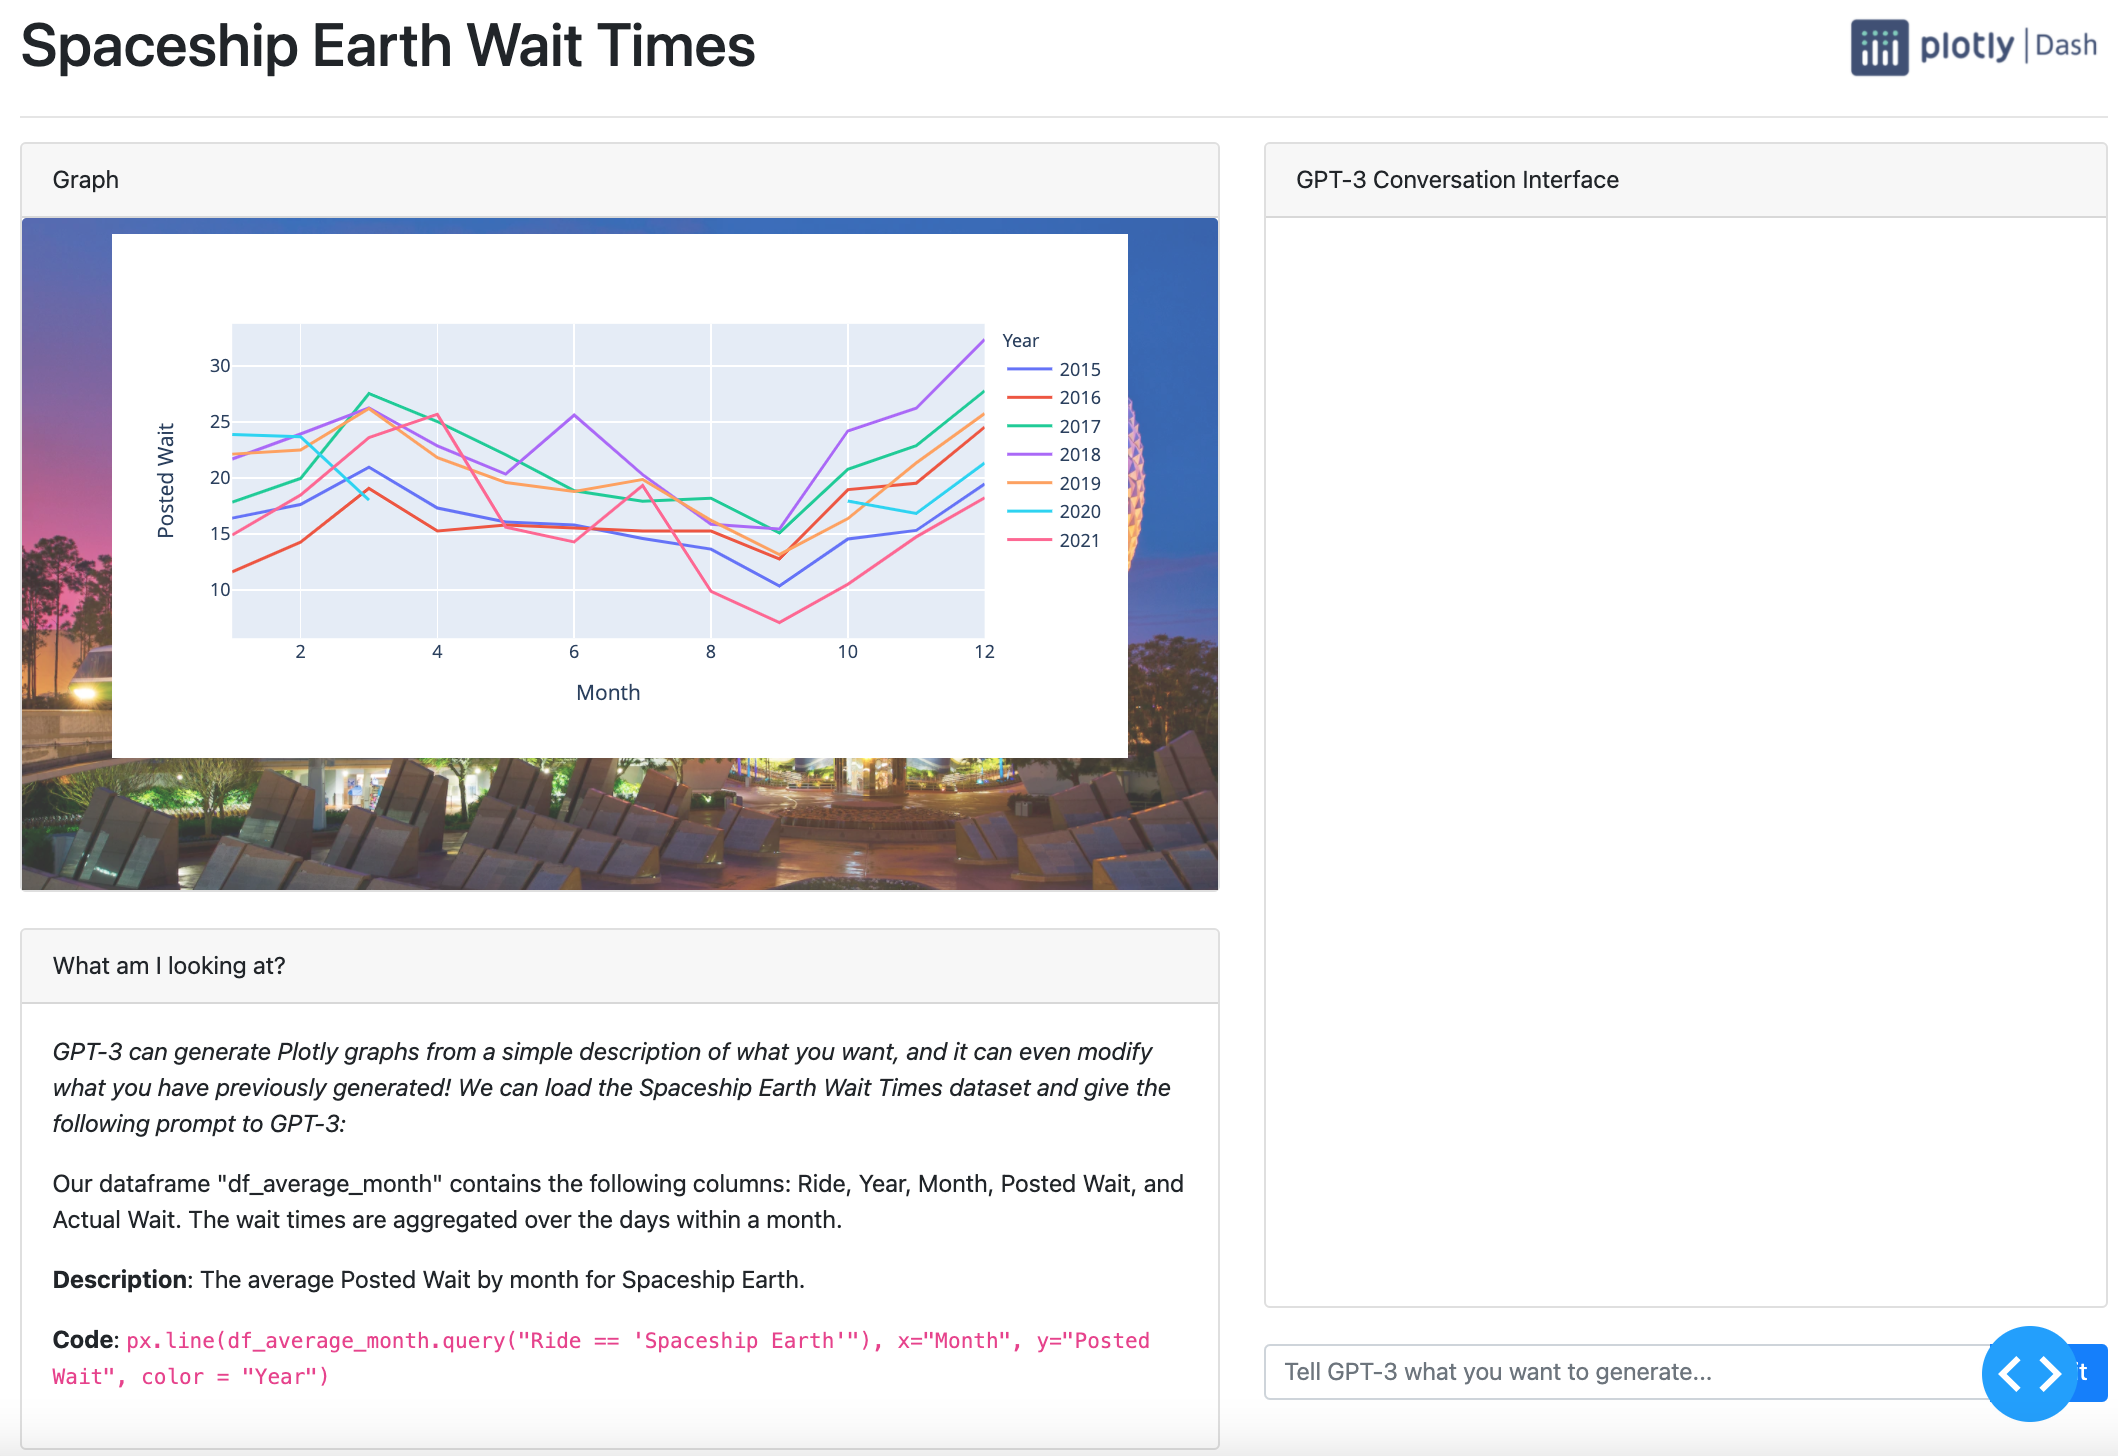
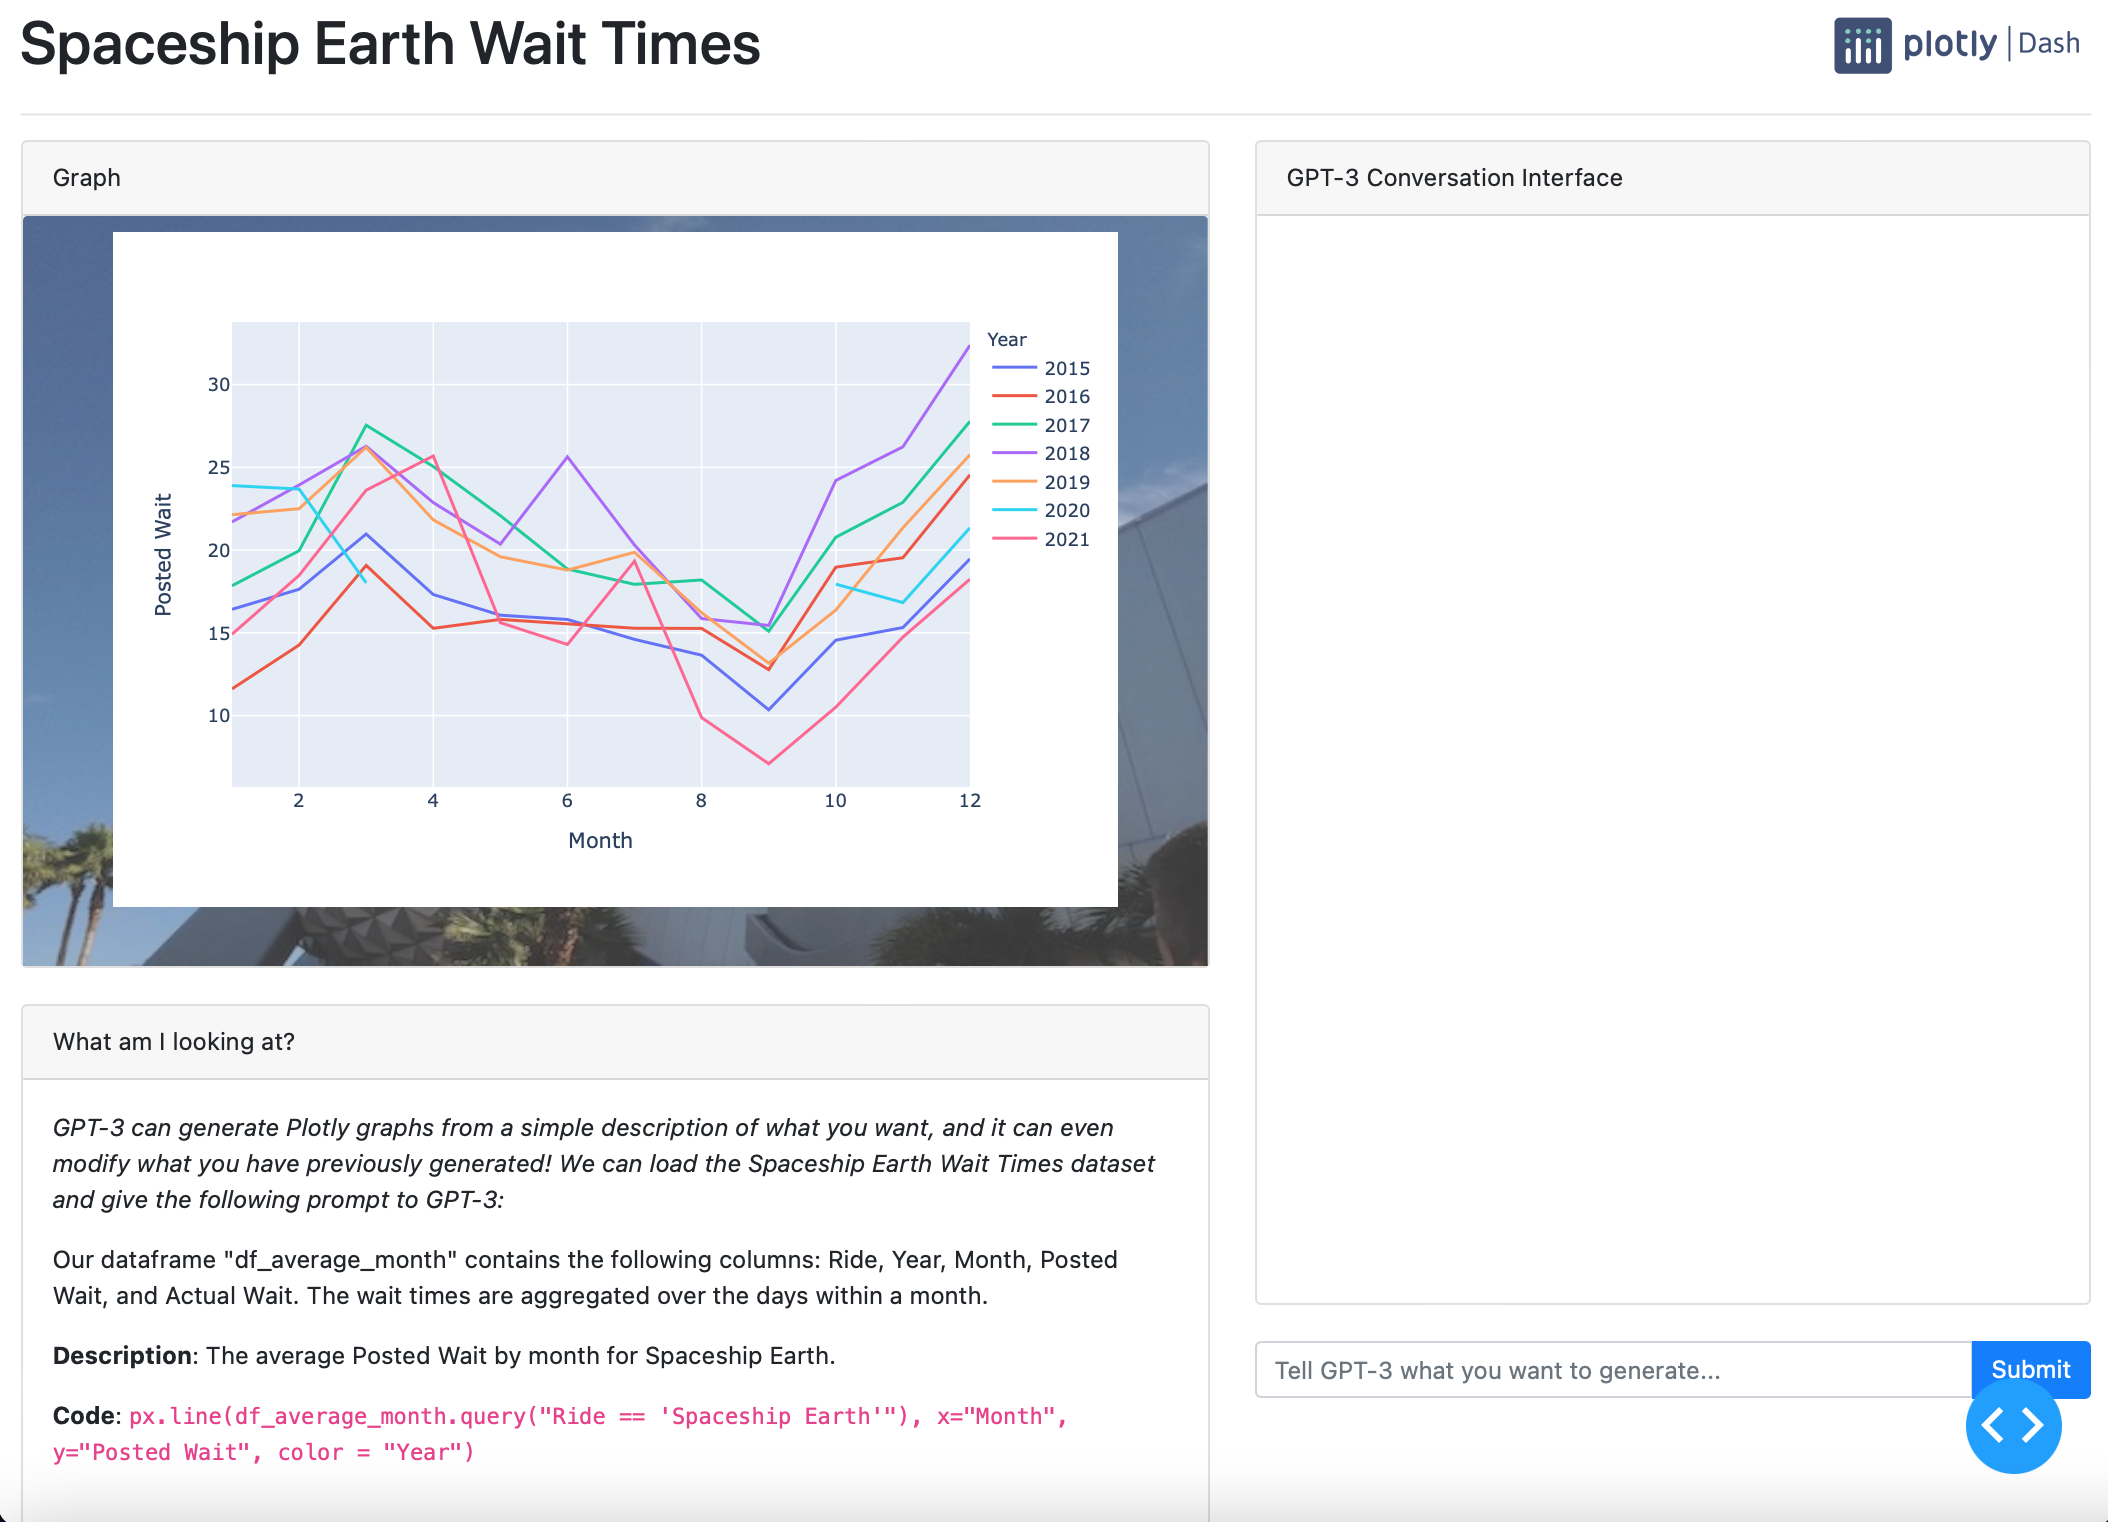
Updates images and graphs, as well as README.md

diff --git a/app.py b/app.py
@@ -1,5 +1,6 @@
 import os
 from textwrap import dedent
+from turtle import width
 
 import dash
 import dash_bootstrap_components as dbc
@@ -56,7 +57,7 @@ The wait times are aggregated over the days within a month.
 app = dash.Dash(__name__, external_stylesheets=[dbc.themes.BOOTSTRAP])
 server = app.server
 
-content_style = {"height": "475px"}
+content_style = {"height": "400px"}
 
 chat_input = dbc.InputGroup(
     [
@@ -74,13 +75,12 @@ output_graph = [
     dbc.CardImg(
             src="/assets/spaceshipearth.png",
             top=True,
-            style={"opacity": 0.8},
+            style={"opacity": 0.8, "height": "500px"},
         ),
         dbc.CardImgOverlay(
             dbc.CardBody(
                 [
-                dbc.CardBody(dbc.Spinner(dcc.Graph(id="output-graph", style={"height": "350px"}))),
-
+                dbc.CardBody(dbc.Spinner(dcc.Graph(id="output-graph")), style={"height": "400px"}),
                 ],
             ),
         ),]

diff --git a/README.md b/README.md
@@ -1,5 +1,7 @@
 # Dash GPT-3 Line Charts: Walt Disney World
 
+![spaceshipearth](assets/spaceshipearth.png)
+
 This is an app using GPT-3 to create line charts of wait times at Walt Disney World using natural language. This app is built starting from the sample app provided at this [repository](https://github.com/plotly/dash-sample-apps/tree/main/apps/dash-gpt3-lines). Currently, the app incorporates data regarding Spaceship Earth at Epcot. The dataset was retrieved in January 2022 from [TouringPlans.com](https://touringplans.com/walt-disney-world/crowd-calendar#DataSets).
 
 This first graph shows the Posted Wait by year across months for Spaceship Earth. The wait is averaged over all recorded waits within that year and month. One observation is that the wait times are noticeably lower in September across all years. This may indicate lower visitation rates to Epcot during September. Perhaps this is a good time for an event to attract guests, for example the Food and Wine Festival.
